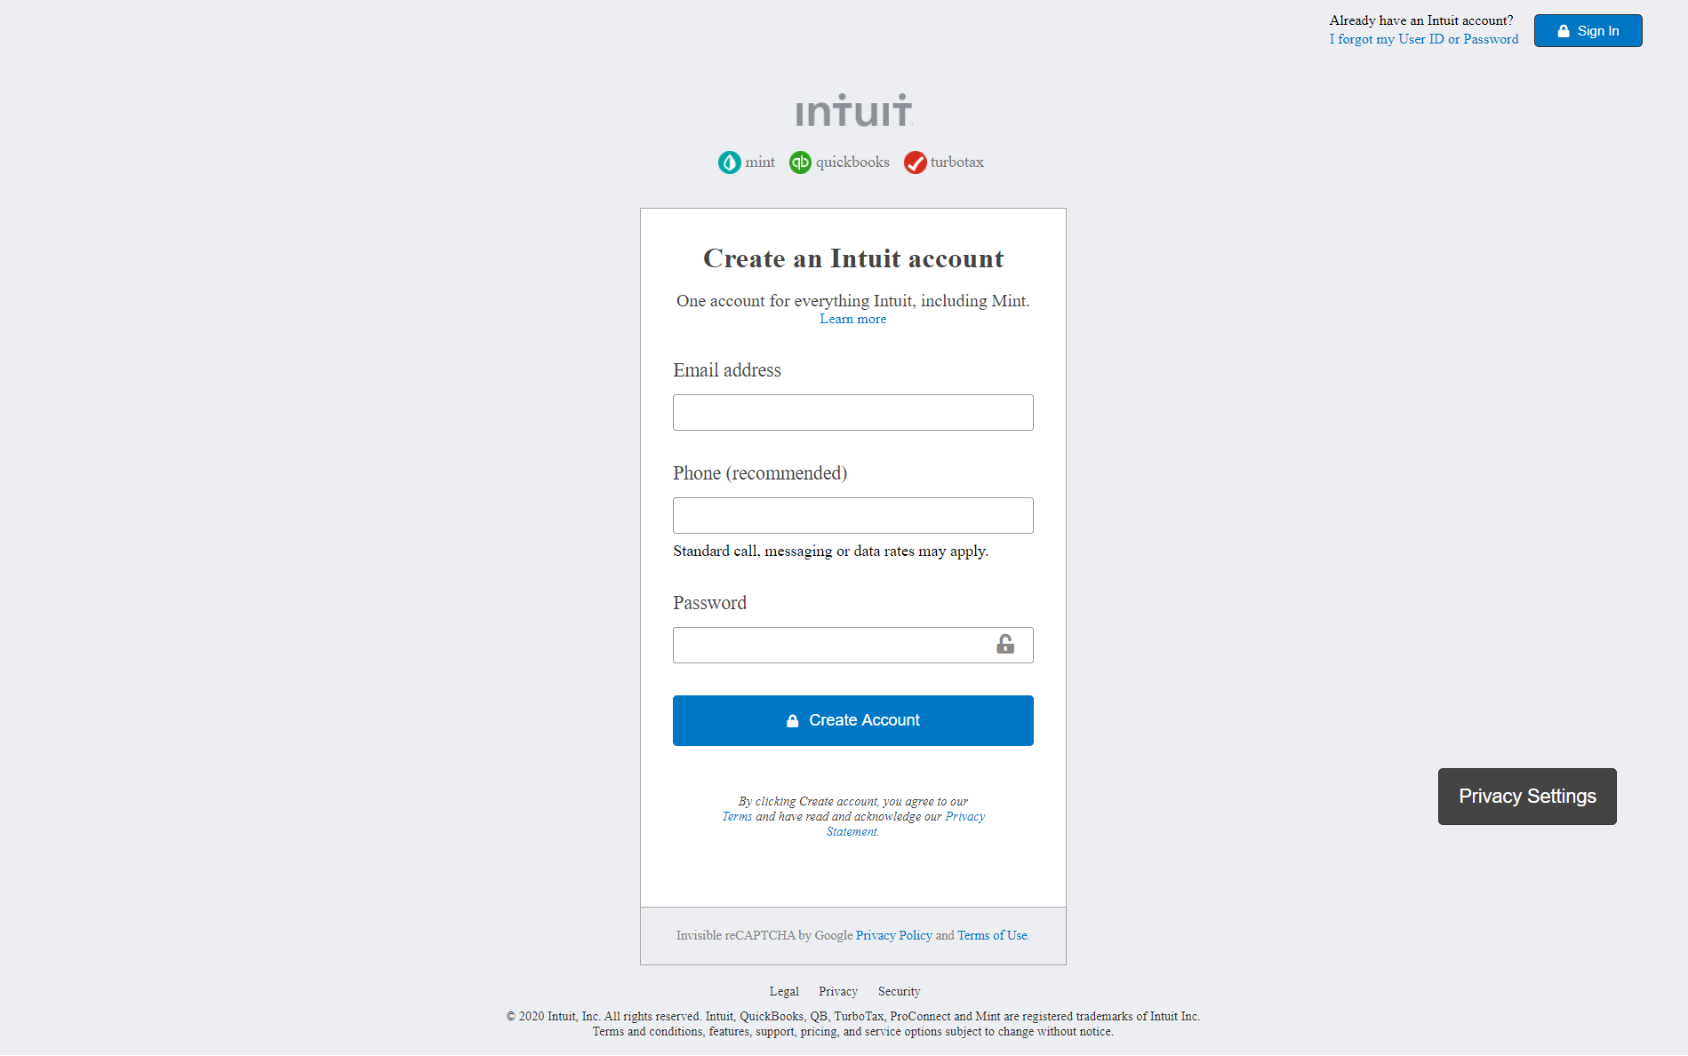
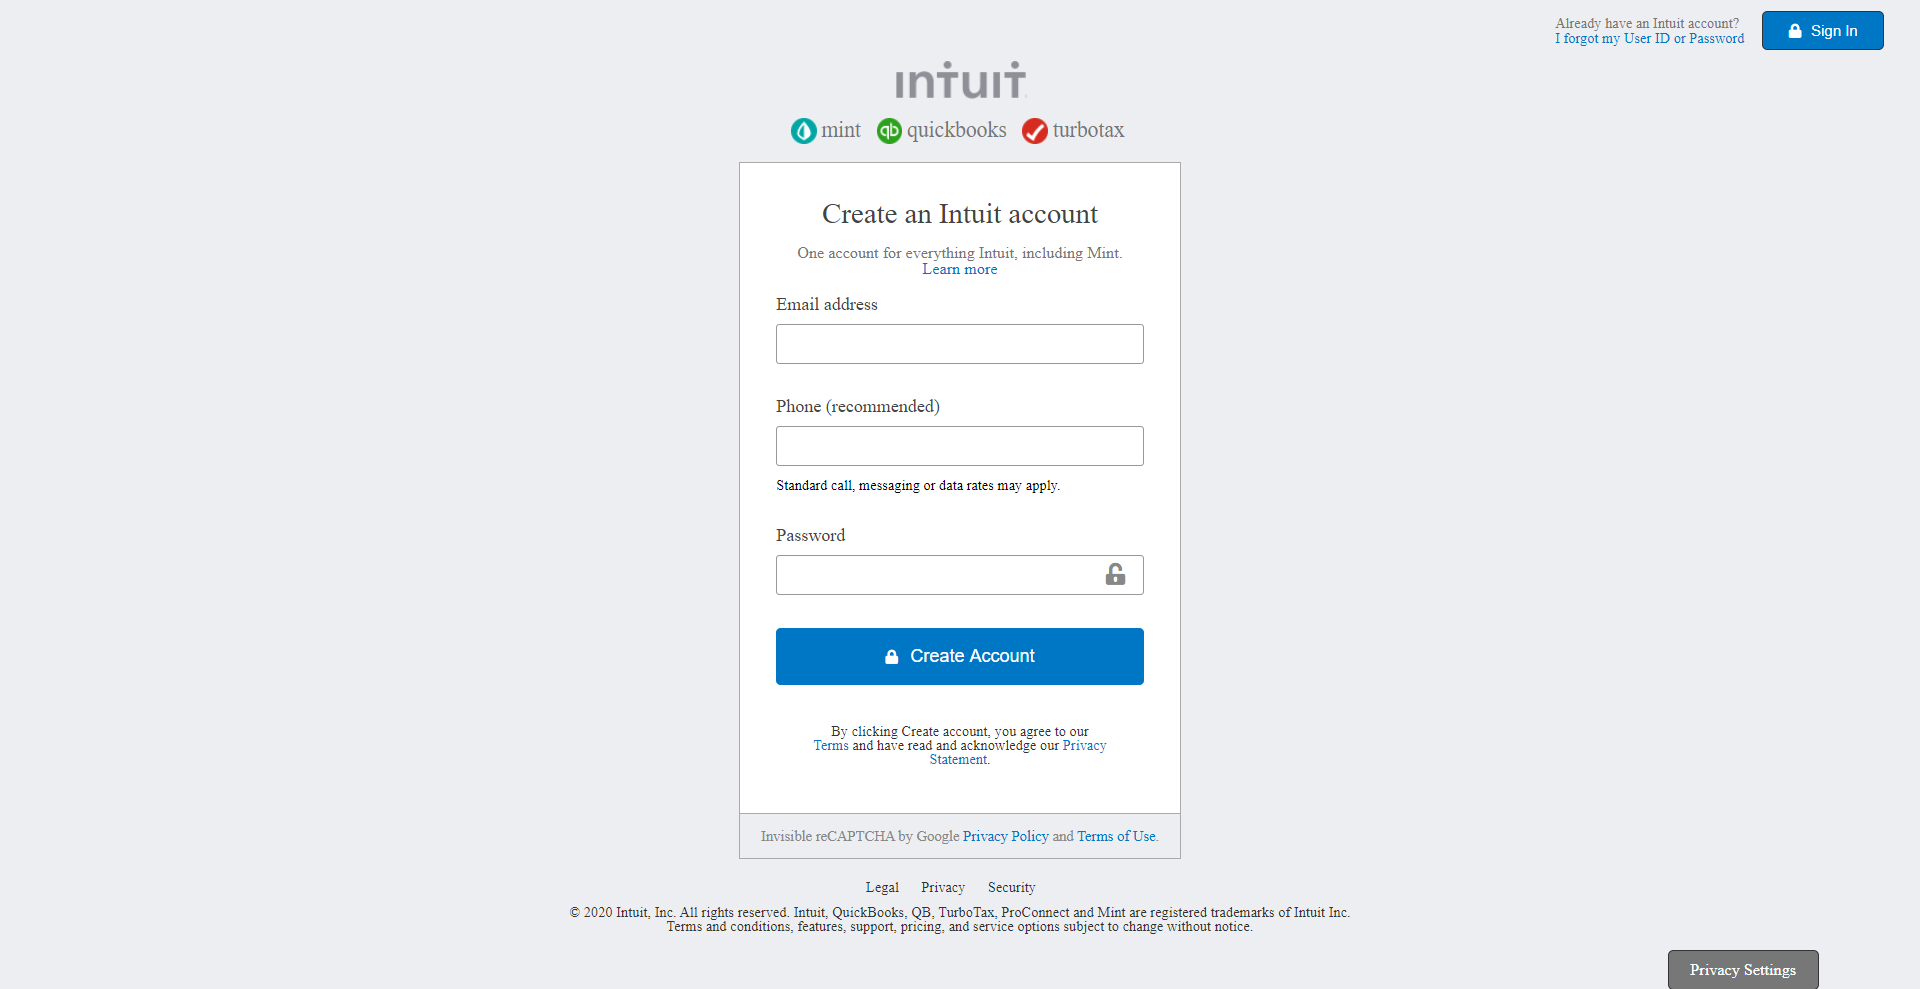
Changed the screenshoot image and updated the Live link in the README.md file

diff --git a/README.md b/README.md
@@ -1,5 +1,6 @@
 # Mint.com Signup Clone
-> This project consists of building an HTML document that matches the appearance of mint.com’s signup page. It was developed as a requirement for Microverse HTML and CSS course. 
+
+> This project consists of building an HTML document that matches the appearance of mint.com’s signup page. It was developed as a requirement for Microverse HTML and CSS course.
 
 ![screenshot](./images/app_screenshot.png)
 
@@ -13,23 +14,22 @@ In this project, we made use of DRY (Do Not Repeat Yourself) principles to make 
 
 ## Live Demo
 
-[Live Demo Link](https://rawcdn.githack.com/temesghentekeste/mint.com-signup-clone/dc30cc664c11709bbfbcaedacd6a112ac30d7d14/index.html)
-
+[Live Demo Link](https://rawcdn.githack.com/temesghentekeste/mint.com-signup-clone/dab32ee1d8b173129184074d121f155a57a7fcff/index.html)
 
 ## Getting Started
 
 **Click on the link above in order to see the Live Demo of the front end project.**
 
-
 To get a local copy up and running follow these simple example steps.
 
 ### Prerequisites
- - Web Browser
- - Text Editor
+
+- Web Browser
+- Text Editor
 
 ### Setup
- - Download repository files
 
+- Download repository files
 
 ## Authors
 
